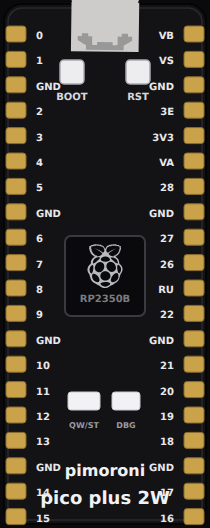
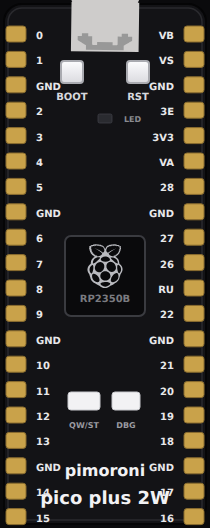
docs(pico-plus-2w): regenerate the board page — it still said WiFi was dead
The published page is generated from scripts/board-extras/ plus the live board
element, and only the extras file had been rewritten. So the portal was telling
readers "the CYW43 WiFi coprocessor and the PSRAM are not emulated" and
offering the single blink example, days after both started working.

Regenerated against staging: the guide text, the corrected Arduino-only
language line, the five examples, and fresh board art that now shows the BOOT
and RESET caps and the user LED.

diff --git a/src/content/docs/boards/reference/pimoroni-pico-plus-2w.md b/src/content/docs/boards/reference/pimoroni-pico-plus-2w.md
@@ -12,27 +12,49 @@ so it always matches what you can wire).
 ![Pimoroni Pico Plus 2 W board](../../../../assets/docs/boards/pimoroni-pico-plus-2w.png)
 
 **Family:** [Pro boards](/docs/boards/pro-boards/) ·
-**Languages:** Arduino C++, MicroPython
+**Languages:** Arduino C++
 
 ## About this board
 
 Pimoroni's RP2350B in the standard Pico footprint — `GP0` through `GP28` plus
 the power rails — so any wiring you built for a
-[Pico](/docs/boards/reference/raspberry-pi-pico/) drops straight onto it.
+[Pico](/docs/boards/reference/raspberry-pi-pico/) drops straight onto it. What
+the extra silicon adds: 16 MB of flash, 8 MB of PSRAM, a Raspberry Pi RM2
+wireless module, a Qw/ST (Qwiic/STEMMA QT) connector on `GP4`/`GP5`, and a BOOT
+button that doubles as a user switch on `GP45`.
 
-Two limits worth knowing before you plan around this board:
+Two board details that surprise people, on real hardware as much as here:
 
-- **GPIO, UART, USB serial, I2C and SPI run.** That covers most Pico projects
-  unchanged.
-- **The CYW43 WiFi coprocessor and the PSRAM are not emulated.** If a project
-  needs wireless, the [Pico W](/docs/boards/reference/pi-pico-w/) is the board
-  that has it here.
+- **The user LED is not a chip pin.** It hangs off the RM2 module's `WL_GPIO0`
+  — `LED_BUILTIN` in Arduino, `Pin('LEDW')` in MicroPython — so it is driven by
+  a command over the module's SPI bus rather than a GPIO write. It lights here
+  all the same.
+- **`GP26`–`GP28` are plain digital pins.** On the RP2350B the ADC lives on
+  `GP40`–`GP47`, which Pimoroni brings out as `A0`–`A3`.
+
+What runs here: GPIO, UART, USB serial, I2C, SPI, ADC, timers, the BOOT button,
+the **8 MB PSRAM** (`pmalloc()` returns real memory in the XIP window at
+`0x11000000`) and **WiFi** — the CYW43439 inside the RM2 is emulated register by
+register, so `WiFi.begin()` associates with Velxio's virtual access point
+(`Velxio-GUEST`, open), gets 10.13.37.42 and can make real HTTP requests through
+Velxio's network bridge. Not emulated: Bluetooth, and `WiFi.scanNetworks()` (it
+reports 0 networks even though joining works).
 
 ## Start here
 
-[Blink + Serial](https://velxio.dev/example/pimoroni-pico-plus-2w-blink) is the
-board's own example — an LED and serial output, enough to confirm the toolchain
-and the console in one run.
+- [Onboard LED](https://velxio.dev/example/pimoroni-pico-plus-2w-onboard-led) —
+  Pimoroni's `onboard_led.py`: blinks the user LED on the RM2.
+- [Who is in space](https://velxio.dev/example/pimoroni-pico-plus-2w-astronauts)
+  — their `astronauts.py`: joins WiFi and fetches a real HTTP response, live
+  from open-notify.org. (Their `catfacts.py` is not shipped: catfact.ninja now
+  redirects to HTTPS, and TLS is out of reach for the emulated chip.)
+- [BOOT as user button](https://velxio.dev/example/pimoroni-pico-plus-2w-button)
+  — their `button.py`: hold BOOT (GP45) and the LED comes on.
+- [The 8 MB PSRAM](https://velxio.dev/example/pimoroni-pico-plus-2w-psram) —
+  allocates a megabyte outside the chip's own 520 KB of SRAM and verifies it.
+- [Qw/ST breakout bus](https://velxio.dev/example/pimoroni-pico-plus-2w-qwst-i2c)
+  — scans the Qwiic connector on `GP4`/`GP5` and reads the demo I2C devices,
+  the pattern Pimoroni's breakout examples use.
 
 ## Pins (40)
 
